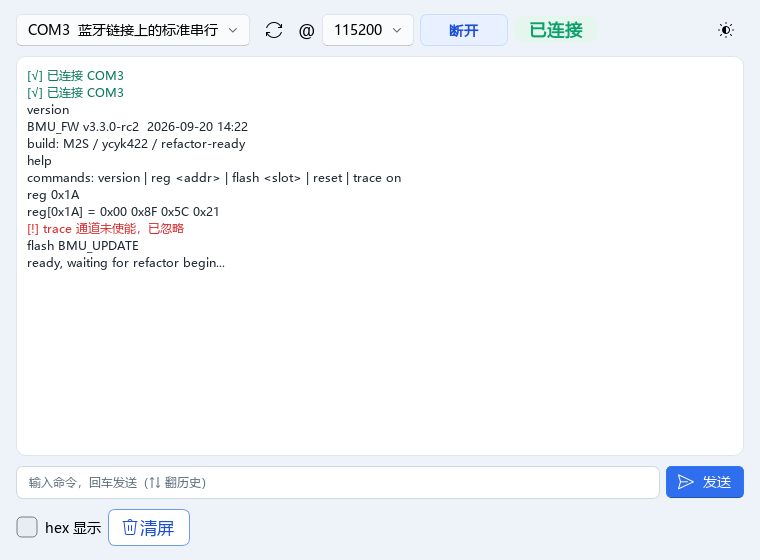
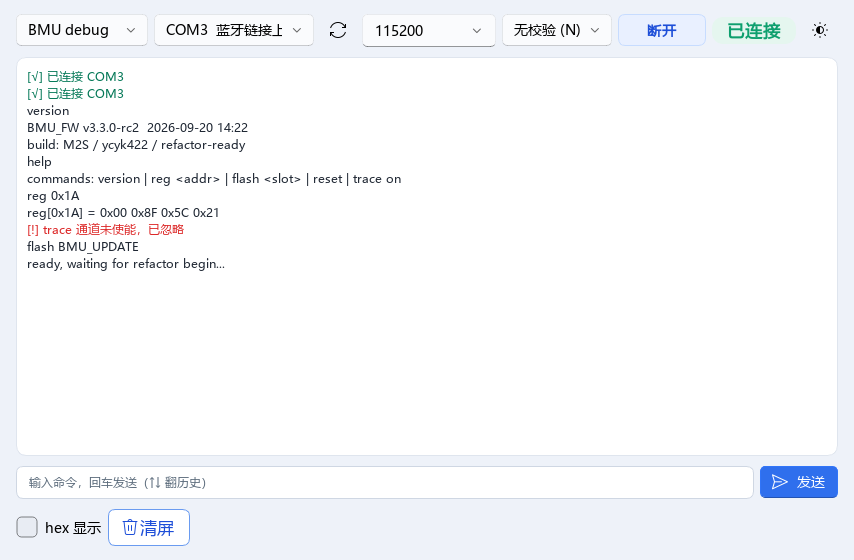
feat(gui-ng): 通道配置条 v2——通道预设 + 可输入波特率 + 校验位入口（P0：SC/self 422 是 8O1）
- P0 修复：ConnectionBar 原先只传 baud（默认 8N1），而 SC/self 422 实测为
  921600 8O1 —— 真机按 8N1 打开必然通信失败。现在校验位有入口并透传到 link.open。
- 通道预设（按 bmu_testkit/AGENT_INTERFACE.md §3 实测参数固化）：
  BMU debug 115200 8N1 / self 422 921600 8O1 / SC 422 921600 8O1；
  选预设自动套参，手改参数自动回落「自定义」。transfer 页默认 SC 422。
- 波特率改 EditableComboBox（可选可输入任意值）；参数按页持久化
  （QSettings，console/transfer/sc422 各记各的）。
- 数据位/停止位不做 UI（三通道都是 8/1；底层 API 已支持透传，需要时再开）。
- 两个实测坑：EditableComboBox.setCurrentText 只吃列表内值（非列表静默忽略，
  必须用 setText）；下拉宽度要按字体实测（BMU debug 需 >=127px、115200 需 >=100px）。
- 新增 tools/smoke_connection_bar.py（7 项：预设联动/自定义回落/校验位透传/持久化/非列表值恢复）

diff --git a/uicmp/guiwidgets/common.py b/uicmp/guiwidgets/common.py
@@ -1,62 +1,172 @@
 # -*- coding: utf-8 -*-
-"""common · 跨页面复用的控件（连接条 / 日志面板等）。"""
-from PyQt5.QtCore import Qt
+"""common · 跨页面复用的控件（通道配置条 / 日志面板等）。"""
+from PyQt5.QtCore import Qt, QSettings
 from PyQt5.QtSerialPort import QSerialPortInfo
 from PyQt5.QtWidgets import QWidget, QHBoxLayout, QLabel
 
-from qfluentwidgets import (ComboBox, PrimaryPushButton, PushButton,
-                            TransparentToolButton, FluentIcon as FIF)
+from qfluentwidgets import (ComboBox, EditableComboBox, PrimaryPushButton,
+                            PushButton, TransparentToolButton, FluentIcon as FIF)
 
 from uicmp.guiwidgets import theme
 from uicmp.guiwidgets.theme import badge
 
 BAUDS = ['115200', '9600', '921600', '4000000', '2000000']
 
+# 常用档位（可输入的候选，不只限于这些——现场常需要敲奇数值）
+BAUD_CHOICES = ['9600', '19200', '38400', '57600', '115200', '230400',
+                '460800', '921600', '1000000', '2000000', '4000000']
+
+# 通道预设：按 bmu_testkit/AGENT_INTERFACE.md §3 实测参数固化。
+# 价值 = 防接错：选预设自动套波特率+校验，不用记 8O1 这种事。
+# 数据位/停止位三个通道都是 8/1，不做 UI（底层 API 已支持透传）。
+PRESETS = [
+    ('BMU debug', 115200, 'N'),   # debug UART：字符交互
+    ('self 422',  921600, 'O'),   # 自主管理 422
+    ('SC 422',    921600, 'O'),   # SC 天线 422（当前跑文件传输）
+]
+CUSTOM_PRESET = '自定义'
+
+PARITY_ITEMS = [('无校验 (N)', 'N'), ('奇校验 (O)', 'O'), ('偶校验 (E)', 'E')]
+
 
 class ConnectionBar(QWidget):
-    """串口连接条：端口选择 · 刷新 · 波特率 · 打开/关闭 · 状态徽章。
+    """通道配置条：预设 · 端口 · 波特率(可输入) · 校验 · 打开 · 状态徽章。
 
-    直接绑定一个 SerialLink，页面不再各自维护连接 UI。
-    用法：
-        bar = ConnectionBar(link)
-        bar.opened/closed/error 信号按需订阅（已转发自 link）
+    ⚠ 校验位是必须暴露的（P0）：SC/self 422 是 921600 **8O1**，
+    只给波特率入口的话真机上按 8N1 打开必然通信失败（2026-09-21 审计发现）。
+
+    参数按 settings_key（页面名）持久化——console/transfer/sc422 各记各的。
     """
 
-    def __init__(self, link, dark=False, bauds=BAUDS, parent=None):
+    def __init__(self, link, dark=False, settings_key='common',
+                 default_preset='BMU debug', parent=None):
         super(ConnectionBar, self).__init__(parent)
         self._link = link
         self._dark = dark
+        self._key = 'connbar/%s' % settings_key
+        self._default_preset = default_preset
+        self._qs = QSettings('JiangCan', 'gui-ng')
+        self._loading = False
 
         lay = QHBoxLayout(self)
         lay.setContentsMargins(0, 0, 0, 0)
         lay.setSpacing(theme.GAP_SM)
 
+        self.combo_preset = ComboBox()
+        self.combo_preset.setFixedWidth(132)   # "BMU debug" 实测需 >=127px
+        self.combo_preset.addItems([p[0] for p in PRESETS] + [CUSTOM_PRESET])
         self.combo_port = ComboBox()
-        self.combo_port.setMinimumWidth(180)
+        self.combo_port.setMinimumWidth(160)
         self.btn_refresh = TransparentToolButton(FIF.SYNC)
         self.btn_refresh.setToolTip('刷新串口列表')
-        self.combo_baud = ComboBox()
-        self.combo_baud.addItems(bauds)
+        self.combo_baud = EditableComboBox()
+        self.combo_baud.addItems(BAUD_CHOICES)
+        self.combo_baud.setFixedWidth(134)   # 112 仍会裁 115200（内部 clear 按钮占位）
+        self.combo_parity = ComboBox()
+        self.combo_parity.addItems([p[0] for p in PARITY_ITEMS])
+        self.combo_parity.setFixedWidth(110)
         self.btn_open = PrimaryPushButton('打开')
-        # ⚠ 固定尺寸：原生自绘（32px）与 QSS tint 态（33px）高度算法不同，
-        # 不固定的话「打开」⇄「断开」切换时按钮会跳 1px（实测 bug）
         self.btn_open.setFixedSize(88, 32)
         self.badge = badge('未连接', 'gray', dark)
 
+        lay.addWidget(self.combo_preset, 0)
         lay.addWidget(self.combo_port, 0)
         lay.addWidget(self.btn_refresh, 0)
-        lay.addWidget(QLabel('@'), 0)
         lay.addWidget(self.combo_baud, 0)
+        lay.addWidget(self.combo_parity, 0)
         lay.addWidget(self.btn_open, 0)
         lay.addWidget(self.badge, 0)
         lay.addStretch(1)
 
         self.btn_refresh.clicked.connect(self.refresh_ports)
         self.btn_open.clicked.connect(self._toggle)
+        self.combo_preset.currentTextChanged.connect(self._on_preset)
+        self.combo_baud.currentTextChanged.connect(self._on_param_changed)
+        self.combo_parity.currentTextChanged.connect(self._on_param_changed)
         self._link.opened.connect(self._on_opened)
         self._link.closed.connect(self._on_closed)
         self._link.error.connect(self._on_error)
         self.refresh_ports()
+        self._load_settings()
+
+    # ------------------------------------------------------------ 参数
+    def parity_code(self):
+        txt = self.combo_parity.currentText()
+        for label, code in PARITY_ITEMS:
+            if label == txt:
+                return code
+        return 'N'
+
+    def _set_parity_code(self, code):
+        for label, c in PARITY_ITEMS:
+            if c == code:
+                self.combo_parity.setCurrentText(label)
+                return
+
+    def _on_preset(self, name):
+        """选预设 → 套参数；手动改参数 → 预设回落「自定义」。"""
+        if self._loading:
+            return
+        for label, baud, parity in PRESETS:
+            if label == name:
+                self._loading = True
+                self.combo_baud.setText(str(baud))   # setText：非列表值也生效
+                self._set_parity_code(parity)
+                self._loading = False
+                self._save_settings()
+                return
+        self._save_settings()
+
+    def _on_param_changed(self, _text):
+        """参数被手动改动：预设切到「自定义」并持久化。"""
+        if self._loading:
+            return
+        for label, baud, parity in PRESETS:
+            if (self.combo_baud.currentText() == str(baud)
+                    and self.parity_code() == parity):
+                if self.combo_preset.currentText() != label:
+                    self._loading = True
+                    self.combo_preset.setCurrentText(label)
+                    self._loading = False
+                break
+        else:
+            if self.combo_preset.currentText() != CUSTOM_PRESET:
+                self._loading = True
+                self.combo_preset.setCurrentText(CUSTOM_PRESET)
+                self._loading = False
+        self._save_settings()
+
+    # ------------------------------------------------------------ 持久化
+    def _save_settings(self):
+        self._qs.setValue(self._key + '/preset', self.combo_preset.currentText())
+        self._qs.setValue(self._key + '/baud', self.combo_baud.currentText())
+        self._qs.setValue(self._key + '/parity', self.parity_code())
+        self._qs.setValue(self._key + '/port', self.current_port())
+
+    def _load_settings(self):
+        self._loading = True
+        baud = self._qs.value(self._key + '/baud', '', type=str)
+        parity = self._qs.value(self._key + '/parity', '', type=str)
+        preset = self._qs.value(self._key + '/preset', '', type=str)
+        if not preset:      # 首次运行：套本页默认预设（如 transfer → SC 422）
+            preset = self._default_preset
+            for label, b, p in PRESETS:
+                if label == preset:
+                    baud, parity = str(b), p
+                    break
+        if baud:
+            self.combo_baud.setText(baud)      # setText：非列表值也能恢复
+        if parity:
+            self._set_parity_code(parity)
+        if preset:
+            self.combo_preset.setCurrentText(preset)
+        port = self._qs.value(self._key + '/port', '', type=str)
+        if port:
+            for i in range(self.combo_port.count()):
+                if self.combo_port.itemText(i).split('  ')[0].strip() == port:
+                    self.combo_port.setCurrentIndex(i)
+                    break
+        self._loading = False
 
     # ------------------------------------------------------------ 端口
     def refresh_ports(self):
@@ -67,6 +177,13 @@ class ConnectionBar(QWidget):
             self.combo_port.addItem('%s  %s' % (name, desc) if desc else name)
         if self.combo_port.count():
             self.combo_port.setCurrentIndex(0)
+        # 刷新后尝试恢复上次端口
+        port = self._qs.value(self._key + '/port', '', type=str)
+        if port:
+            for i in range(self.combo_port.count()):
+                if self.combo_port.itemText(i).split('  ')[0].strip() == port:
+                    self.combo_port.setCurrentIndex(i)
+                    break
 
     def current_port(self):
         txt = self.combo_port.currentText()
@@ -83,7 +200,9 @@ class ConnectionBar(QWidget):
         if self._link.is_open:
             self._link.close()
         elif self.current_port():
-            self._link.open(self.current_port(), baud=self.current_baud())
+            self._save_settings()
+            self._link.open(self.current_port(), baud=self.current_baud(),
+                            data_bits=8, stop_bits=1, parity=self.parity_code())
 
     def _on_opened(self):
         # 「断开」是撤销型动作：主色家族但降一档（浅蓝 tint），

diff --git a/tools/smoke_connection_bar.py b/tools/smoke_connection_bar.py
@@ -1,0 +1,123 @@
+# -*- coding: utf-8 -*-
+r"""ConnectionBar 冒烟：通道预设 / 可输入波特率 / 校验位透传 / 持久化。
+
+重点回归 P0 缺口：校验位必须真的传到 link.open（SC/self 422 是 8O1）。
+跑法：
+  C:\hkj\anaconda3\envs\pyqt_side_all_0328\python.exe tools\smoke_connection_bar.py
+"""
+import os
+import sys
+
+os.environ.setdefault('QT_QPA_PLATFORM', 'offscreen')
+_ROOT = os.path.dirname(os.path.dirname(os.path.abspath(__file__)))
+if _ROOT not in sys.path:
+    sys.path.insert(0, _ROOT)
+
+from PyQt5.QtCore import QSettings
+from PyQt5.QtWidgets import QApplication
+from PyQt5.QtGui import QFontDatabase
+
+from uicmp.guiwidgets.common import ConnectionBar, PRESETS
+
+
+class FakeLink(object):
+    """替身 link：只记录 open 参数与开关状态。"""
+
+    class _Sig(object):
+        def __init__(self):
+            self._slots = []
+
+        def connect(self, fn):
+            self._slots.append(fn)
+
+        def emit(self, *a):
+            for fn in self._slots:
+                fn(*a)
+
+    def __init__(self):
+        self.opened = self._Sig()
+        self.closed = self._Sig()
+        self.error = self._Sig()
+        self.is_open = False
+        self.open_args = None
+
+    def open(self, port, **kw):
+        self.open_args = dict(kw, port=port)
+        self.is_open = True
+        self.opened.emit()
+        return True
+
+    def close(self):
+        self.is_open = False
+        self.closed.emit()
+
+
+def main():
+    app = QApplication(sys.argv)
+    QFontDatabase.addApplicationFont('C:/Windows/Fonts/msyh.ttc')
+
+    KEY_BASE = 'connbar/_smoke'
+    qs = QSettings('JiangCan', 'gui-ng')
+    for k in ('preset', 'baud', 'parity', 'port'):
+        qs.remove(KEY_BASE + '/' + k)
+
+    link = FakeLink()
+    bar = ConnectionBar(link, settings_key='_smoke', default_preset='SC 422')
+    bar.show()
+
+    # ---- 1. 首次运行套默认预设（SC 422 → 921600 + Odd）
+    assert bar.combo_baud.currentText() == '921600', bar.combo_baud.currentText()
+    assert bar.parity_code() == 'O', bar.parity_code()
+    assert bar.combo_preset.currentText() == 'SC 422'
+    print('1. 默认预设套用 OK（SC 422 → 921600 8O1）')
+
+    # ---- 2. 切换预设联动
+    bar.combo_preset.setCurrentText('BMU debug')
+    assert bar.combo_baud.currentText() == '115200' and bar.parity_code() == 'N'
+    bar.combo_preset.setCurrentText('self 422')
+    assert bar.combo_baud.currentText() == '921600' and bar.parity_code() == 'O'
+    print('2. 预设联动 OK（debug/self 切换参数正确）')
+
+    # ---- 3. 手动改参数 → 预设回落「自定义」
+    bar.combo_baud.setText('250000')             # 模拟手敲（setText 才能设非列表值）
+    assert bar.combo_preset.currentText() == '自定义', bar.combo_preset.currentText()
+    print('3. 可输入波特率 + 预设回落自定义 OK')
+
+    # ---- 4. P0：校验位必须真的传到 link.open
+    bar.combo_preset.setCurrentText('SC 422')
+    bar.combo_port.clear()
+    bar.combo_port.addItem('COM_TEST')
+    bar._toggle()                                # 打开
+    assert link.open_args is not None, '未触发 open'
+    assert link.open_args.get('parity') == 'O', '校验位未透传: %r' % link.open_args
+    assert link.open_args.get('baud') == 921600, link.open_args
+    assert link.open_args.get('data_bits') == 8 and link.open_args.get('stop_bits') == 1
+    print('4. P0 校验位透传 OK（open 收到 parity=O / 921600 8O1）')
+
+    # ---- 5. 持久化：新建实例应读回上一组参数
+    bar._toggle()                                # 关闭（顺带保存）
+    bar2 = ConnectionBar(FakeLink(), settings_key='_smoke')
+    assert bar2.combo_baud.currentText() == '921600', bar2.combo_baud.currentText()
+    assert bar2.parity_code() == 'O', bar2.parity_code()
+    assert bar2.combo_preset.currentText() == 'SC 422'
+    print('5. 持久化 OK（新实例读回 921600 8O1 / SC 422）')
+
+    # ---- 6. 非列表波特率也要能持久化恢复
+    # （坑：EditableComboBox.setCurrentText 对列表外的值静默忽略——
+    #   用 setText 才能设/恢复任意值，2026-09-21 实测）
+    bar2.combo_baud.setText('250000')
+    bar3 = ConnectionBar(FakeLink(), settings_key='_smoke')
+    assert bar3.combo_baud.currentText() == '250000', \
+        '非列表波特率未恢复: %r' % bar3.combo_baud.currentText()
+    assert bar3.combo_preset.currentText() == '自定义'
+    print('6. 非列表波特率持久化恢复 OK（250000 / 自定义）')
+
+    # ---- 7. 收尾：清理测试留下的配置
+    for k in ('preset', 'baud', 'parity', 'port'):
+        qs.remove(KEY_BASE + '/' + k)
+    print('7. 测试配置已清理 OK')
+    print('SMOKE OK')
+
+
+if __name__ == '__main__':
+    main()

diff --git a/uicmp/apps/console_app.py b/uicmp/apps/console_app.py
@@ -56,7 +56,9 @@ class ConsoleApp(QDialog):
         # ---- 连接条（共用组件）+ 主题按钮
         conn = QHBoxLayout()
         conn.setSpacing(theme.GAP_SM)
-        self.conn = ConnectionBar(self.session.link, dark=self._dark)
+        self.conn = ConnectionBar(self.session.link, dark=self._dark,
+                                      settings_key='console',
+                                      default_preset='BMU debug')
         conn.addWidget(self.conn, 1)
         self.btn_theme = TransparentToolButton(FIF.CONSTRACT)
         self.btn_theme.setToolTip('浅/深主题')

diff --git a/uicmp/apps/transfer_app.py b/uicmp/apps/transfer_app.py
@@ -163,7 +163,9 @@ class TransferApp(QDialog):
         v.setContentsMargins(16, 14, 16, 14)
         v.setSpacing(theme.GAP)
 
-        self.conn = ConnectionBar(self.link, dark=False)
+        self.conn = ConnectionBar(self.link, dark=False,
+                                    settings_key='transfer',
+                                    default_preset='SC 422')   # 文件传输走 SC 422
         self.link.opened.connect(
             lambda: self.log('[√] 已连接'))
         self.link.closed.connect(
